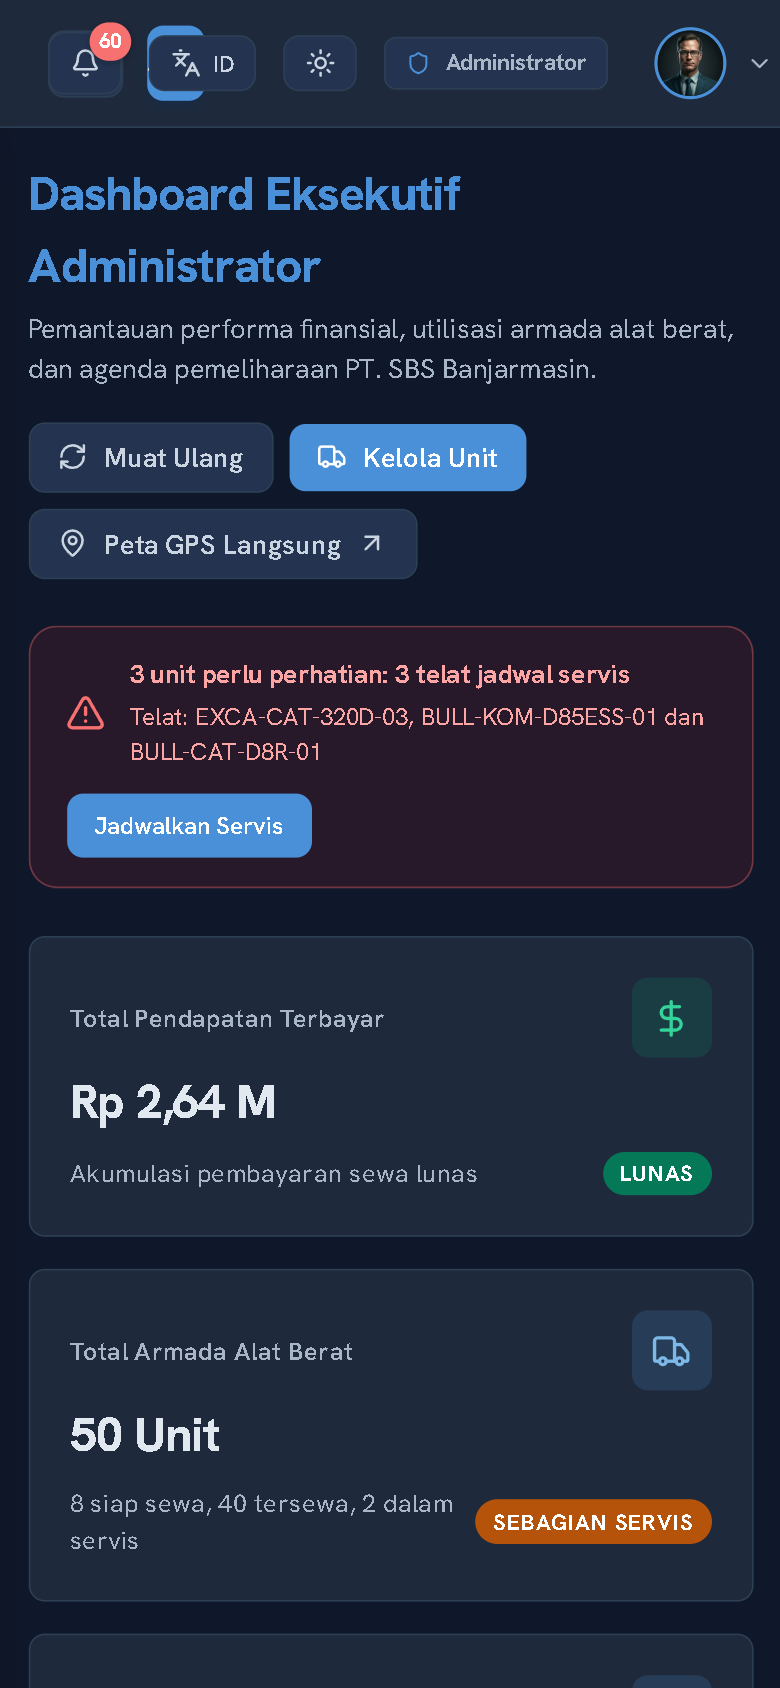
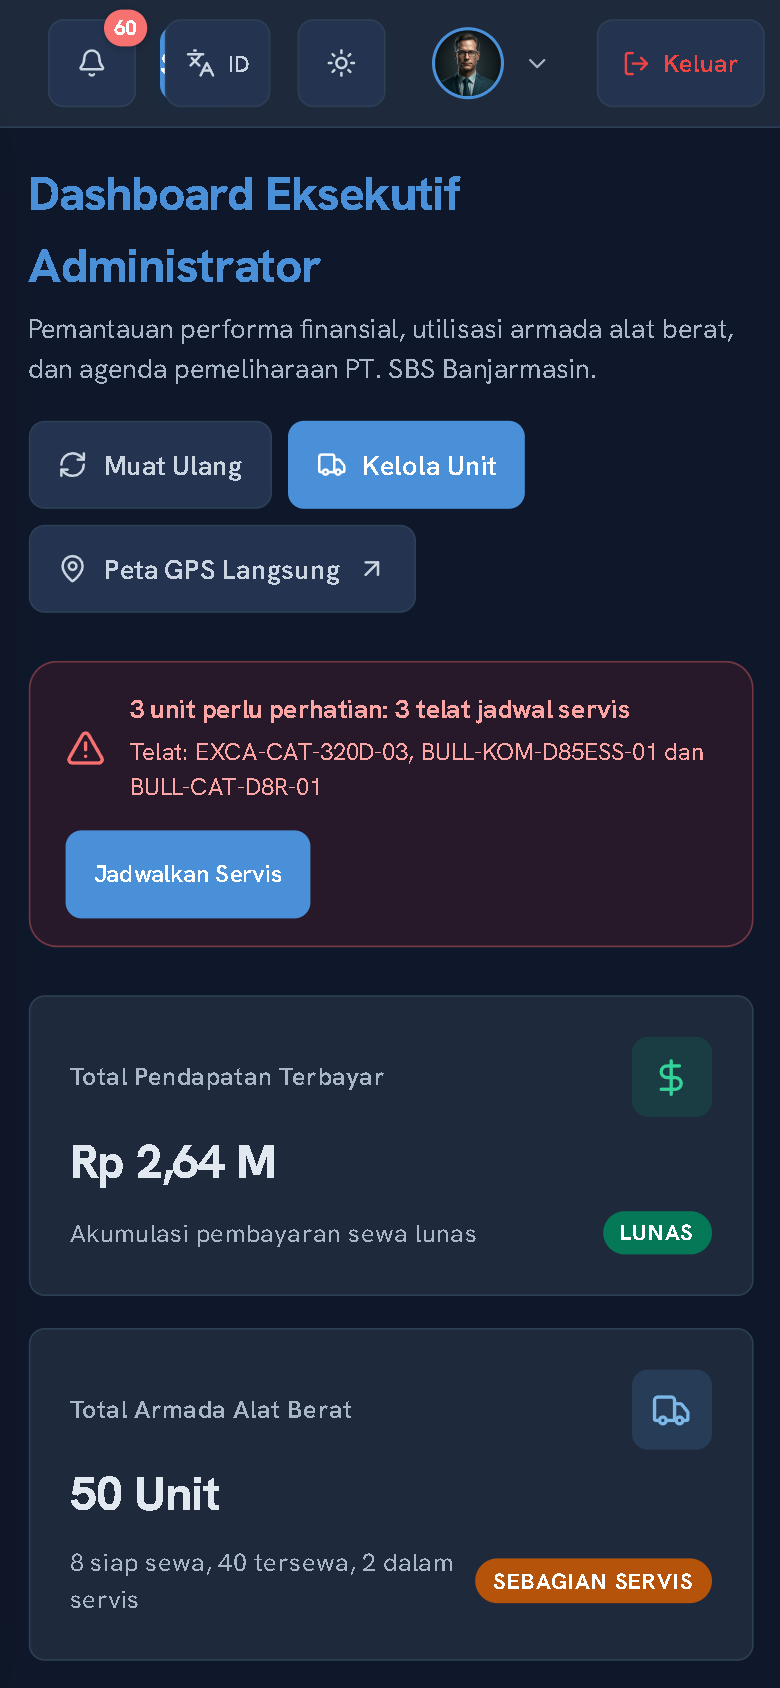
test+fix(offline): suite offlineQueue (21 assert; 30/30) + guard sedangFlush cegah re-antre tanpa akhir saat server mati

diff --git a/src/lib/db.ts b/src/lib/db.ts
@@ -227,6 +227,9 @@ function galatJaringan(e: unknown): boolean {
   return e instanceof TypeError || /Failed to fetch|NetworkError|Load failed/i.test(String(e));
 }
 
+/** Sedang memproses flush antrean? (menahan re-antre saat kirim ulang gagal) */
+let sedangFlush = false;
+
 async function kirimKeApi(method: 'POST' | 'PUT' | 'DELETE', path: string, body?: unknown): Promise<unknown> {
   if (typeof window === 'undefined') return null; // sisi Worker: wt() sudah menulis
   let res: Response;
@@ -243,8 +246,10 @@ async function kirimKeApi(method: 'POST' | 'PUT' | 'DELETE', path: string, body?
   } catch (e) {
     /* Siklus 70: jaringan putus -> simpan di antrean FIFO localStorage,
        kirim ulang otomatis saat pulih (flushAntreanOffline). Urutan antar
-       mutasi terjaga karena antrean diproses berurutan dari kepala. */
-    if (galatJaringan(e) && typeof localStorage !== 'undefined') {
+       mutasi terjaga karena antrean diproses berurutan dari kepala.
+       `sedangFlush` = flush yang mencoba kirim ulang: JANGAN meng-antre
+       ulang item yang sama (menyebabkan loop tanpa akhir di flush). */
+    if (galatJaringan(e) && !sedangFlush && typeof localStorage !== 'undefined') {
       const masuk = tambahAntrean({ method, path, body, dibuatAt: Date.now() });
       if (masuk) {
         throw new Error('Jaringan putus — perubahan dimasukkan antrean dan akan terkirim otomatis saat pulih.');
@@ -291,21 +296,25 @@ async function lewatJembatan<T>(
 export async function flushAntreanOffline(): Promise<{ terkirim: number; ditolak: string[] }> {
   const terkirimList: number[] = [];
   const ditolak: string[] = [];
-  // eslint-disable-next-line no-constant-condition
-  while (true) {
-    const antrean = bacaAntrean() as AntreanMutasi[];
-    if (antrean.length === 0) break;
-    const m = antrean[0];
-    try {
-      await kirimKeApi(m.method, m.path, m.body);
-      terkirimList.push(1);
-      buangAntreanKe(0);
-    } catch (e) {
-      if (galatJaringan(e)) break; // masih offline: simpan sisanya
-      // Server menolak secara definitif -> buang agar tidak memblokir antrean.
-      ditolak.push(String((e as Error).message || e));
-      buangAntreanKe(0);
+  sedangFlush = true;
+  try {
+    while (true) {
+      const antrean = bacaAntrean() as AntreanMutasi[];
+      if (antrean.length === 0) break;
+      const m = antrean[0];
+      try {
+        await kirimKeApi(m.method, m.path, m.body);
+        terkirimList.push(1);
+        buangAntreanKe(0);
+      } catch (e) {
+        if (galatJaringan(e)) break; // masih offline: simpan sisanya
+        // Server menolak secara definitif -> buang agar tidak memblokir antrean.
+        ditolak.push(String((e as Error).message || e));
+        buangAntreanKe(0);
+      }
     }
+  } finally {
+    sedangFlush = false;
   }
   if (terkirimList.length > 0) {
     const { sinkronCermin } = await import('./fetchCollection');

diff --git a/STATE/changelog.md b/STATE/changelog.md
@@ -95,3 +95,7 @@
 
 ## Siklus 70 — 2026-09-28
 - Fitur: antrean mutasi offline FIFO + flush otomatis saat pulih + badge tertahan.
+
+## Siklus 71 — 2026-09-28
+- Test: suite offlineQueue 21 assert (FIFO, kapasitas, flush, guard re-antre).
+- FIX bug: guard sedangFlush pada flushAntreanOffline (mencegah re-antre tak berujung saat server mati).
